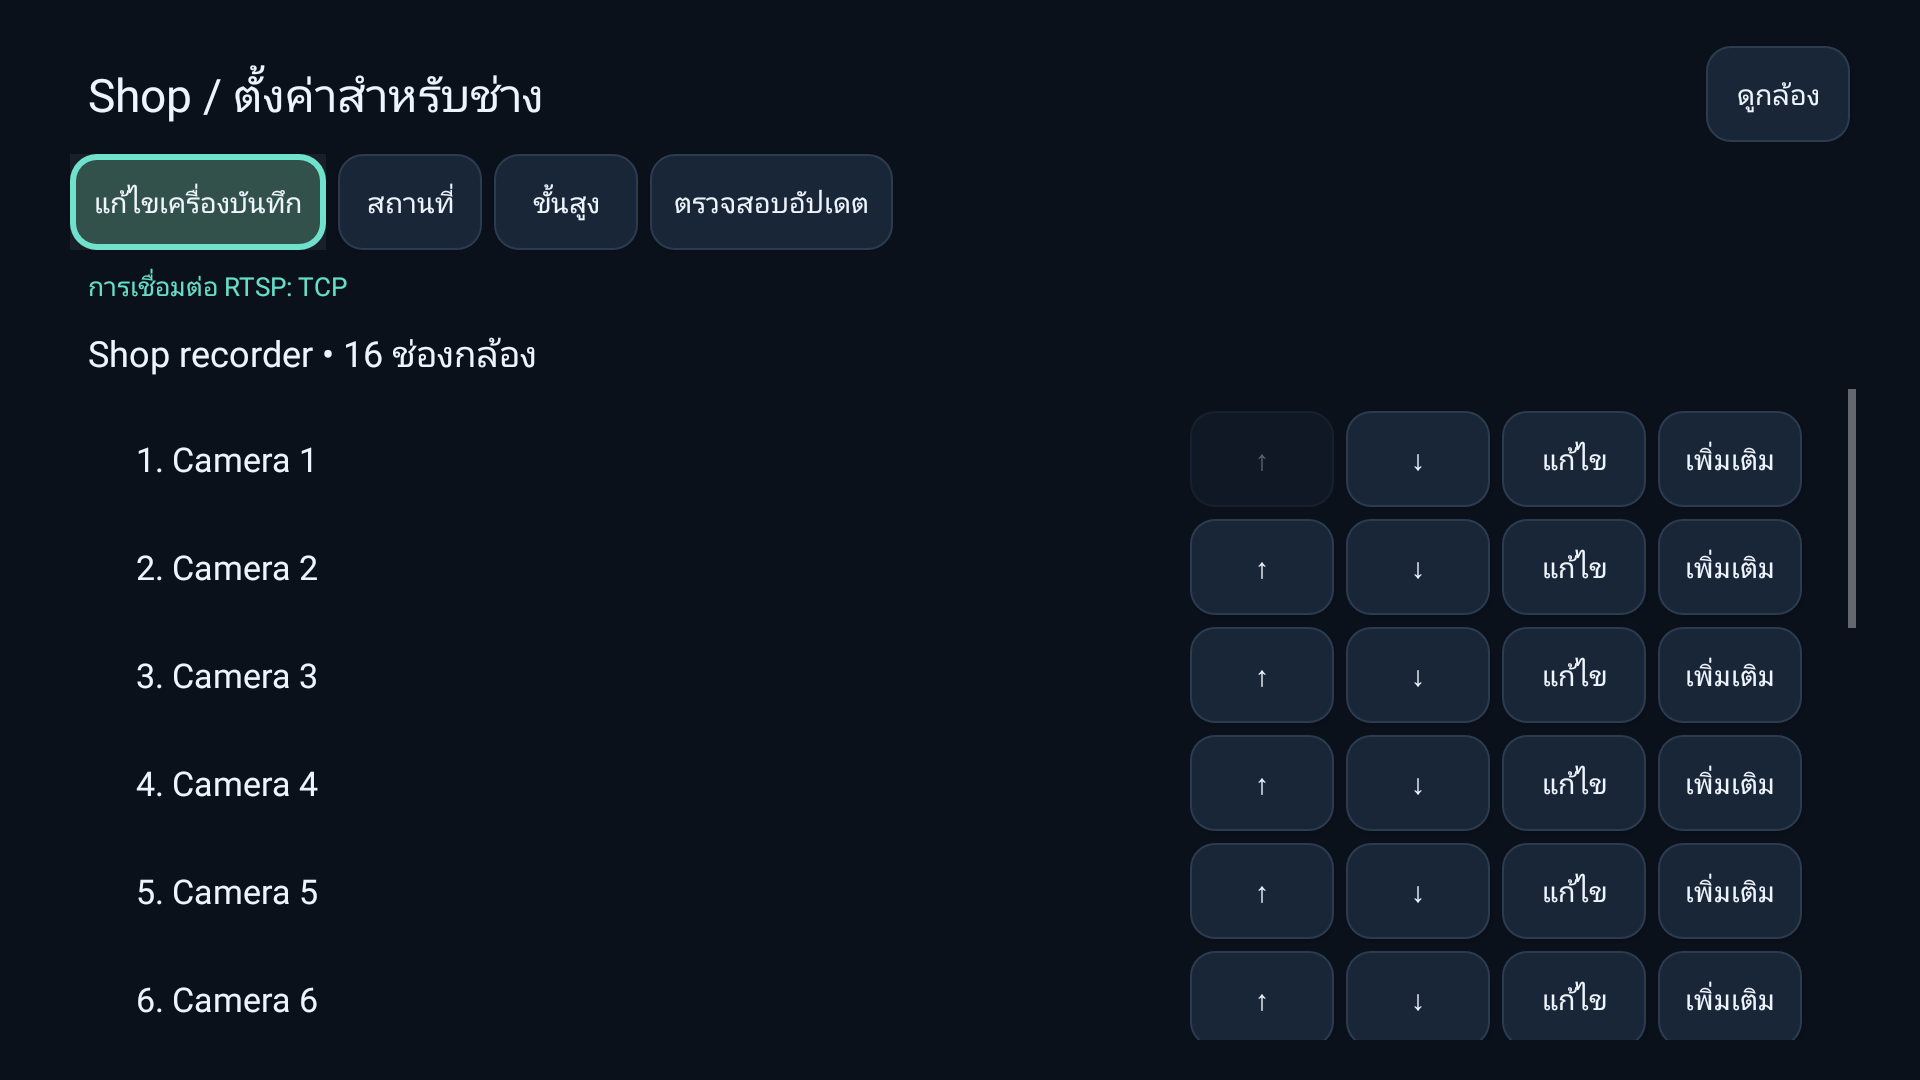
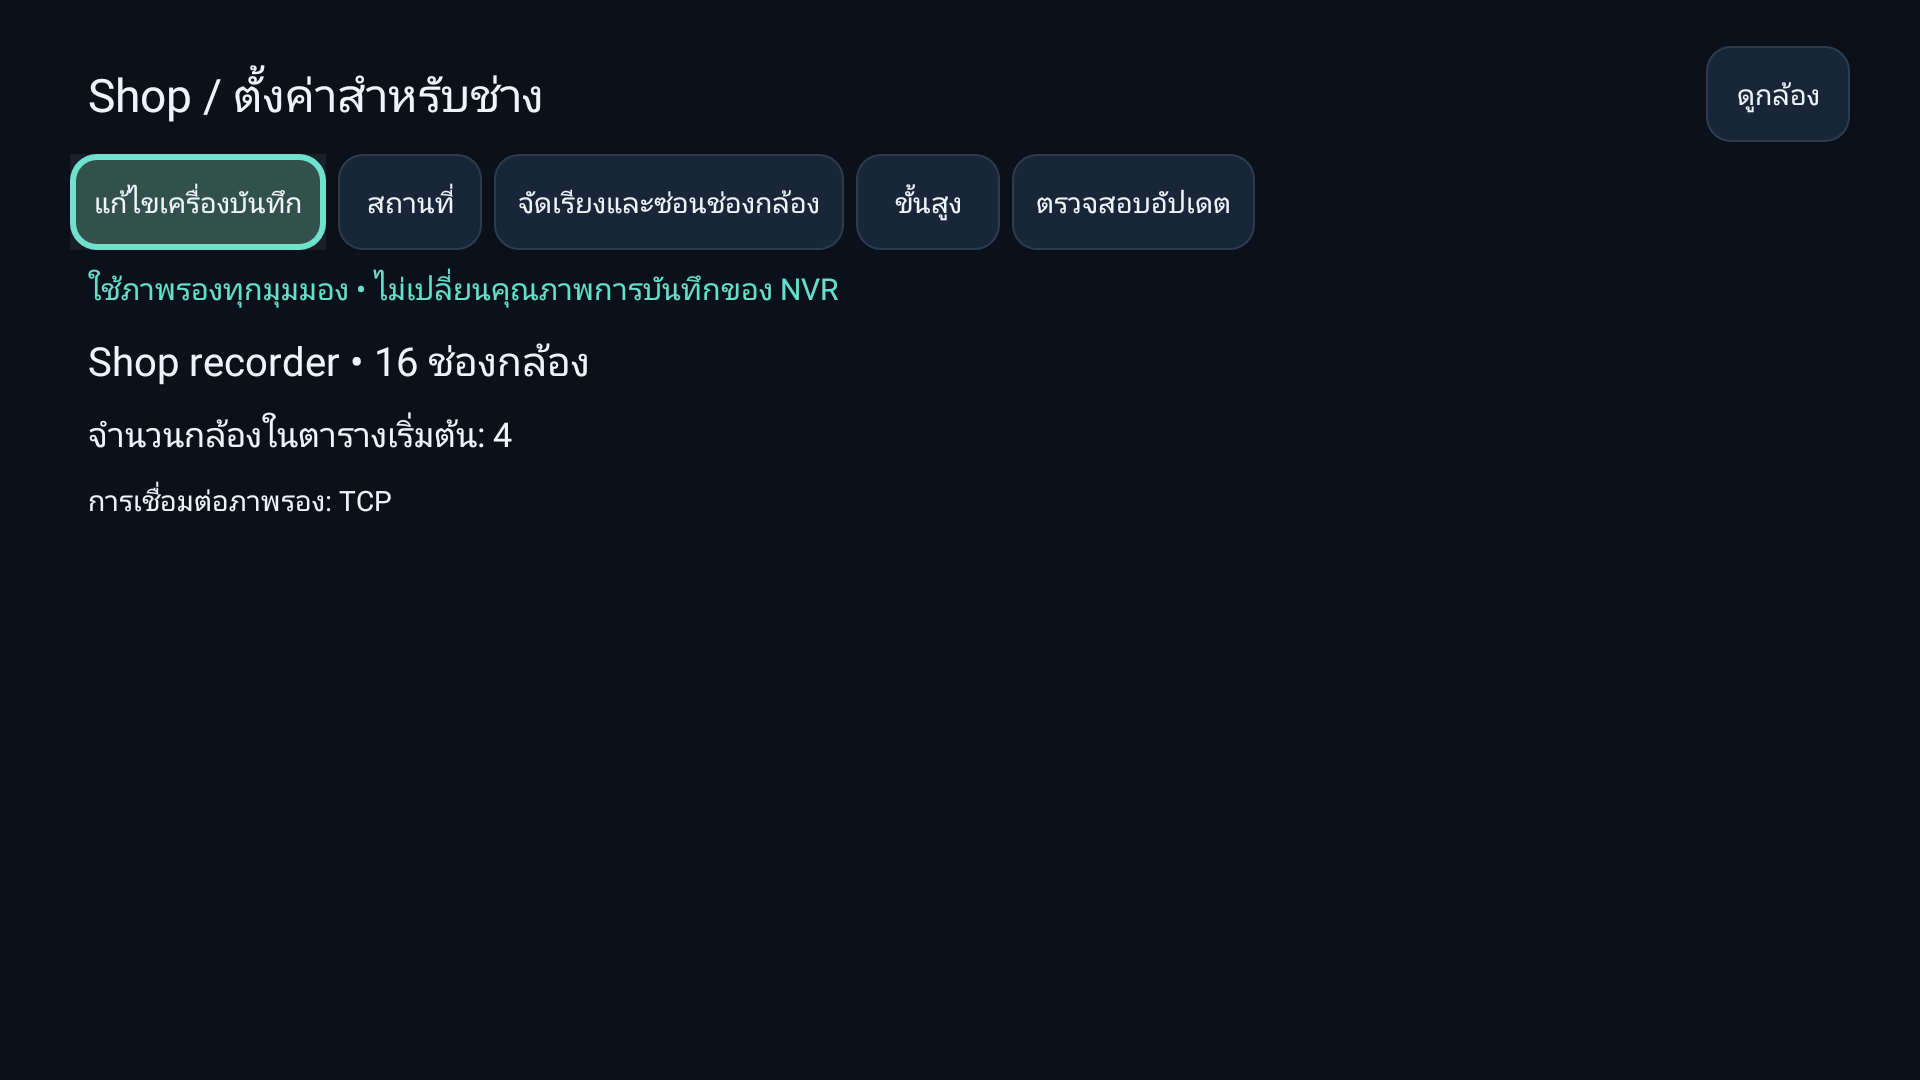
docs: record TV workflow validation and synthetic previews

diff --git a/docs/validation-0.5.0.md b/docs/validation-0.5.0.md
@@ -1,0 +1,26 @@
+# CCTV0.5.0 validation snapshot
+
+Issue:#4. Draft PR:https://github.com/pnntrn/cctv-tv/pull/5 . Package com.pnntrn.cctv, code1015, minAPI26. No public tag/release/feed promotion or merge is approved by this record.
+
+## Scope and finishing criteria
+
+SUB only, including fullscreen and technician/phone confirmation. Back returns to the app grid; layouts1/4/6/8/9/16; idle toolbar and safe held-key shortcuts; one NVR per location; staged live channel ordering/visibility; lossless encrypted schema3 migration. Require unit/lint/build, actual decoder/native UI checks, independent review and an honest real-Box capacity report. No recorder encoding changes or profile wipe.
+
+## Local evidence before final CI
+
+- Baseline61 host tests passed. New layout/migration APIs were RED before implementation; the foundation host suite passed afterward. Independent review caught missing-cell navigation on partial six-camera pages; two regressions failed before the fix and the23-test geometry/hold suite passed afterward. Scoped re-review accepted it.
+- Distinct synthetic SUB/MAIN streams reproduced wrong routing before the change.18 actual playback methods passed after SUB-only routing, including H264/HEVC, missing/present fmtp, vendor FU continuation, invalid MAIN/no fallback, credential privacy, release and six simultaneous decoded320x180 synthetic feeds. The six-feed capture is not a six-HD-stream physical capacity claim.
+- Initial7 new workflow UI methods passed;5 existing draft,1 TV integration and7 existing viewing methods passed after adapting obsolete MAIN expectations to SUB-only behavior. Callback-only UI contract tests remain separate from real decoder tests.
+- Final review on898500c found empty/all-hidden toolbar focus recovery and unrelated NVR edits resetting the selected layout. Background arrangement camera-identity drift was included in the same fix wave. Four new regressions failed before fixes; two default-layout controls passed. Commit e95e13b passed all13 workflow UI tests in37.153s and all74 host unit tests. Scoped re-review marked all findings addressed, with no material new breakage.
+- Initial CI's toolbar test failed because it requested focus without proving it succeeded in Android touch mode. The test now injects a real D-pad Up and asserts focused toolbar before the unchanged4.3s idle/shortcut assertions. The targeted case and whole13-case workflow class passed afterward.
+- Unit/lint/debug/minified release/AndroidTest build passed before the final fix wave; final source lint/release and CI are required before delivery. Additional scripts passed:56 core,38 extended,22 updater checks; Digest authentication with/without qop;12 Python release-verifier tests.
+
+## Distribution and physical checks
+
+Final-source CI, retained-key APK verification, in-place Mi Box upgrade, saved-location preservation and real six-substream counters are recorded in the PR as they finish. They were pending when this snapshot was committed; consult the current PR results rather than treating the historical baseline CI as final approval. Real logs/screenshots/credentials remain outside Git. Repository screenshots contain synthetic fixtures only.
+
+The original project GPLv3 notice remains bundled; Media3 notices remain. LibVLC, its adapter, native libraries and APK notices are removed. Its source investigation remains historical evidence only.
+
+## Recovery
+
+Schema3 reads schemas1/2 without changing the Keystore alias/key. Every camera ID/credential is retained while legacy multi-NVR locations are split. Old unmodified0.4.x code rejects schema3. A rollback must keep schema3 model/reader/writer and visibility/migration support while reverting a defective behavior, use the retained signing key and a higher version code, and be tested before distribution approval. Never uninstall, clear data or force a downgrade.

diff --git a/docs/superpowers/specs/2026-10-25-substream-tv-workflow-design.md b/docs/superpowers/specs/2026-10-25-substream-tv-workflow-design.md
@@ -7,7 +7,7 @@ The owner requested review and implementation after the proposed flow. Proceed w
 - Back closes the topmost transient dialog, returns fullscreen/settings to the CCTV camera grid, and remains on the grid when already home. Android Home retains its system behavior.
 - Borderless video when idle. A translucent top bar overlays video on key/pointer activity, hides after4s inactivity, and stays visible while a bar control has focus. Layout icon left, location name centered, location icon right; accessible Thai labels and visible focus. Up from top-row cameras reaches the bar, Down returns to the selected camera. Click layout cycles layouts; long Left opens layout picker, long Right opens location picker. Hold shortcuts fire once and consume their release; ordinary direction navigation remains predictable.
 - Layouts:1,4,6,8,9,16. Six uses a3x3 logical grid: first camera occupies the top-left2x2, five small cameras occupy the right column and bottom row. Eight uses4x2. Preserve aspect ratio with black letterboxing rather than cropping video.
-- Runtime layout selection remembers the location's last choice; the technician separately sets its default layout. New/restarted location viewing starts with its saved last layout, initially the default.
+- Runtime layout selection remembers the location's last choice; the technician separately sets its default layout. New/restarted location viewing starts with its saved last layout, initially the default. Explicitly changing the default in setup applies that layout; unrelated NVR edits preserve the existing runtime layout.
 
 ## Technician setup
 - Retain protected technician entry: hold OK for viewing menu, then select Settings and confirm. Back closes the menu safely, including a long Back press; no hidden Back-to-settings gesture. Parents can select layout/location without entering setup.

diff --git a/docs/superpowers/plans/2026-10-25-substream-tv-workflow.md b/docs/superpowers/plans/2026-10-25-substream-tv-workflow.md
@@ -55,3 +55,6 @@ Ownership: MainActivity.java, RecorderDraft.java if required, strings and tests/
 - Ruling: Keep the current visible Settings plus confirmation entry; Back, including held Back, returns safely rather than opening technician setup. This follows the latest Back-home request and existing remote safety tests.
 - Task1: complete14b44d6+c436cd9. Foundation tests RED→GREEN;38app host tests passed before integration. Fresh review found partial-six-page Down navigation; fix-round1 added two failing regressions then passed23 pure geometry/hold tests. Scoped re-review ADDRESSED, no material new issue.
 - Playback:90c6a64 removed VLC and forced SUB. Distinct-SUB/MAIN routing RED decoded wrong codec; GREEN17 playback+2initialUI tests passed35.848s. Includes actual frames, no MAIN connection/fallback, privacy and release.
+- Whole-branch review898500c found empty-screen toolbar focus escape and unrelated NVR edits resetting runtime grid. Both reproduced by new remote/UI regressions. Background cancellation's selected-camera drift was re-graded important because visible identity restoration is a requirement; included in the same fix wave.
+- Ruling: Apply the technician default to runtime only for a new location or an explicitly changed default; unrelated NVR edits preserve the selected layout. This gives an explicit default edit an immediate effect without resetting normal viewing during credential updates.
+- Final fix wave:e95e13b. RED4failures/two controls pass, GREEN13 workflow native methods37.153s,74 host methods. Scoped final re-review: all three findings ADDRESSED; no material new breakage. CI fixture now uses real D-pad focus before its unchanged idle assertion. Remaining: final-source CI/lint/release and private owner-Box upgrade/capacity check.

diff --git a/docs/RELEASING.md b/docs/RELEASING.md
@@ -13,7 +13,7 @@ CCTV0.5.0 (version code1015) is unreleased. The repository is `pnntrn/cctv-tv`; 
 
 Push the reviewed candidate tag only when ready to publish. The tag workflow publishes after both build and native TV checks pass. It uses `scripts/prepare-release.py` to reject unsigned APKs, wrong package/certificate and mismatched version/tag inputs before preparing release assets. Consult `python3 scripts/prepare-release.py --help` for its exact local interface. Pull requests without signing credentials must still build and test; unsigned outputs must never be published as installable releases.
 
-The installable asset is `cctv-release.apk`, accompanied by `SHA256SUMS` and the applicable license/notices. Mark `v0.4.5-rc.1` as a prerelease. Release notes must retain the outstanding Hikvision/Mi Box, 11-channel, decoder-capacity and in-place update/profile checks. Keep the review PR unmerged until its review is complete.
+The installable asset is `cctv-release.apk`, accompanied by `SHA256SUMS` and the applicable license/notices. An approved `v0.5.0-rc.1` tag should be a prerelease. Release notes must accurately distinguish synthetic decoder checks from physical Mi Box capacity and in-place update/profile checks. Keep the review PR unmerged until its review is complete and merge is explicitly approved.
 
 After publication, download the APK and checksums anonymously from [Releases](https://github.com/pnntrn/cctv-tv/releases). Check the SHA-256 and inspect it using Android SDK tools:
 

diff --git a/README.md b/README.md
@@ -85,7 +85,9 @@ The old development build used an ephemeral debug key. Moving from that build to
 
 ## Native UI preview
 
-These are native emulator screenshots using deliberately offline fixture cameras, not real CCTV footage.
+Native emulator captures use synthetic camera fixtures. The six-view capture contains six actually decoded test feeds.
+
+![Six substreams, one large and five small](docs/screenshots/six-live.png)
 
 ![Live camera grid](docs/screenshots/grid.png)
 
